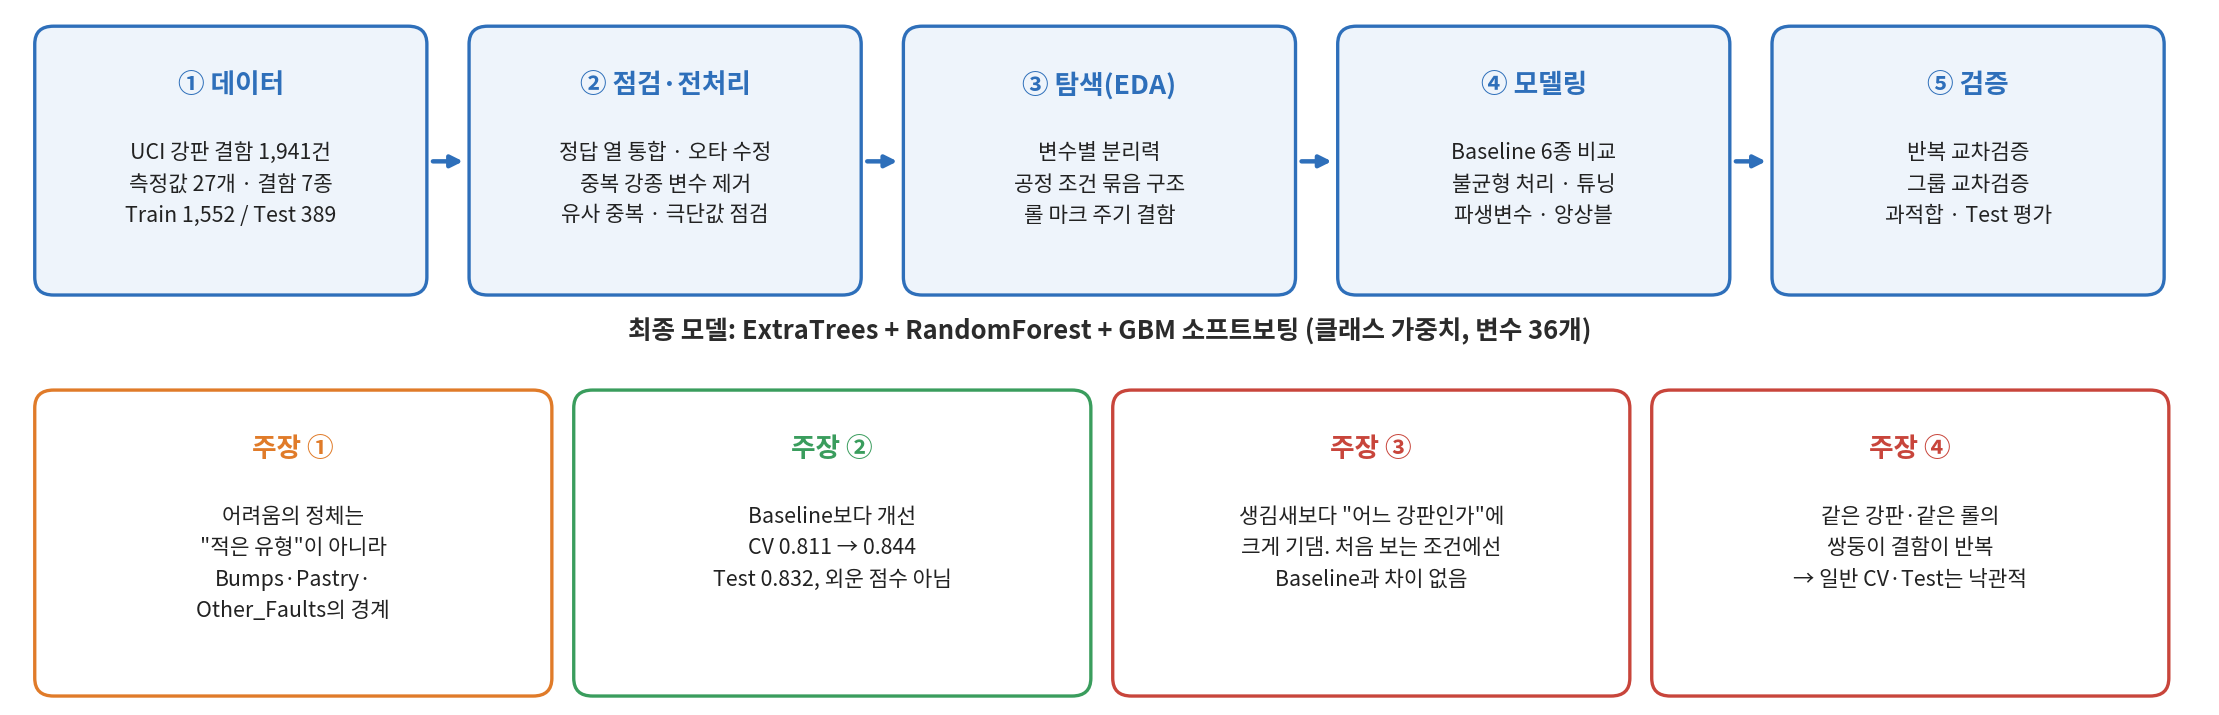
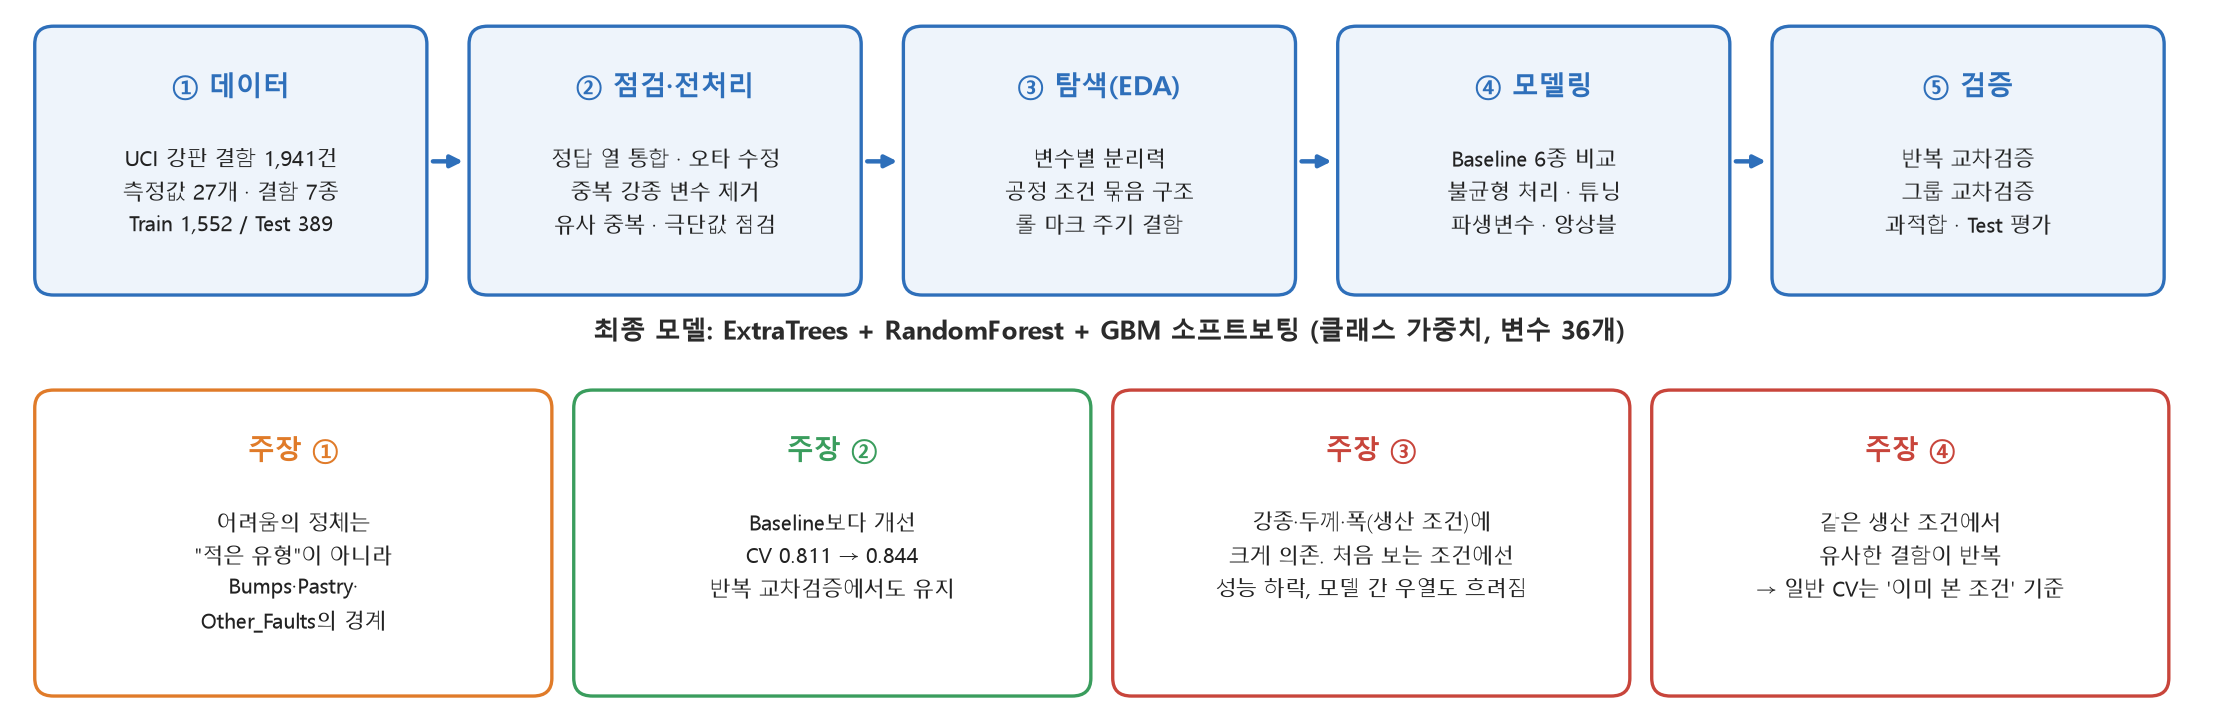
docs(figures): overview 그림을 README 본문 문구에 맞게 갱신, 저장 방식 보완

diff --git a/src/make_figures.py b/src/make_figures.py
@@ -23,6 +23,7 @@ README에 실린 figures/*.png 를 만든 코드를 그대로 모은 것이다.
 """
 import argparse
 import json
+import os
 import shutil
 import sys
 from datetime import datetime
@@ -76,9 +77,20 @@ OUT_DIR = FIG_DIR / "regenerated"   # main()에서 결정
 
 
 def save(fig, name):
-    fig.savefig(OUT_DIR / f"{name}.png", facecolor="white")
+    """임시 파일로 먼저 쓴 뒤 바꿔치기한다.
+    윈도우에서는 그림 파일이 뷰어·동기화 프로그램에 열려 있으면 바로 덮어쓸 때
+    OSError(Errno 22)가 나는 경우가 있어서, 새로 쓴 파일로 교체하는 방식을 쓴다."""
+    dest = OUT_DIR / f"{name}.png"
+    tmp = OUT_DIR / f".{name}.tmp.png"
+    fig.savefig(tmp, facecolor="white")
     plt.close(fig)
-    print("  저장:", (OUT_DIR / f"{name}.png").relative_to(ROOT))
+    try:
+        os.replace(tmp, dest)
+    except OSError as e:
+        tmp.unlink(missing_ok=True)
+        sys.exit(f"[오류] {dest.relative_to(ROOT)} 를 저장하지 못했습니다 ({e}).\n"
+                 f"       그림 파일을 열어 둔 프로그램(사진 뷰어, VS Code 미리보기 등)을 닫고 다시 실행하세요.")
+    print("  저장:", dest.relative_to(ROOT))
 
 
 # ───────────────────────── 데이터 ─────────────────────────
